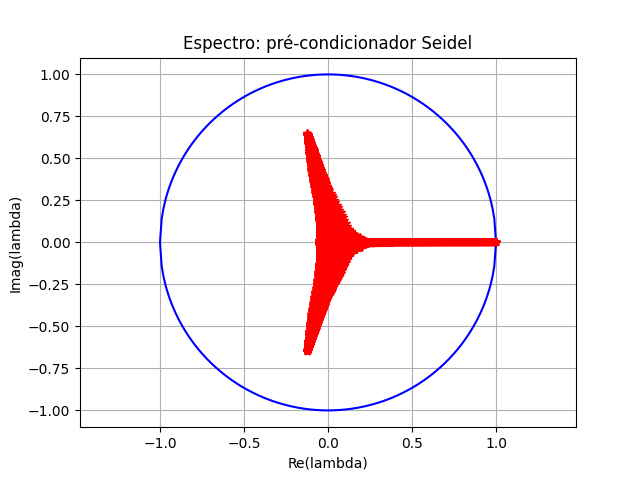
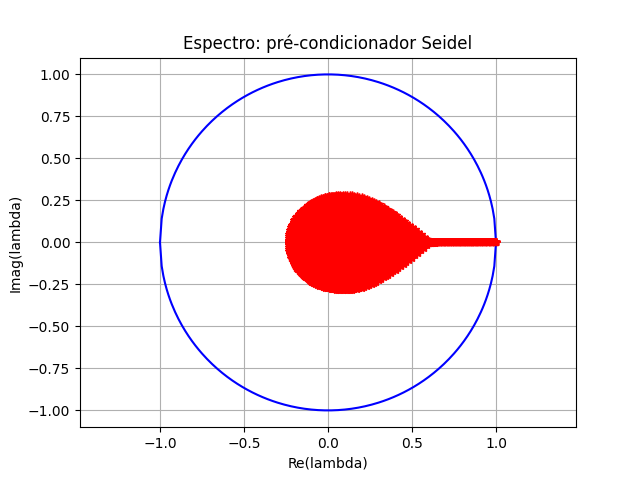
multiscale + jacobi and multiscale + seidel, not ok

Changed region(s): [[0.4375, 0.25, 0.6875, 0.75]]

diff --git a/Espectro/SpectralAnalysisMethods.py b/Espectro/SpectralAnalysisMethods.py
@@ -286,8 +286,7 @@ class SpectralAnalysisMethods:
         # espec_error_operator = np.max(np.abs(av_error_operator))    # raio espectral da matriz pré-condicionada
         ilu = spla.spilu(self._A, fill_factor=1)
         def precond_ilu(x): # Aproximação de A-1 ilu
-            precond_step = ilu.solve(x.astype(np.float64))
-            return precond_step
+            return ilu.solve(x.astype(np.float64))
 
         # precond_multiscale = self._OP @ la.inv(self._OR @ self._A @ self._OP) @ self._OR                  # matriz de pré-condicionamento M^-1 Multiescala
         # precond_system = precond_multiscale @ self._A                             # matriz pré-condicionada
@@ -368,111 +367,166 @@ class SpectralAnalysisMethods:
     def Multiscale_Jacobi(self, args):
         # ----- MATRIZ A pré-condicionador Multiescala + Jacobi -----
         nnod, upperA, lowerA, diagA = args
-        precond_jacobi = la.inv(diagA)                      # pré-condicionador diagonal
-        precond_system = precond_jacobi @ self._A                 # matriz pré-condicionada
-        precond_b = precond_jacobi @ self._b                          # vetor dos carregamentos externos pré-condicionado
-        posto_jacobi = np.linalg.matrix_rank(precond_system)    # posto da matriz pré-condicionada
-        cond_jacobi = np.linalg.cond(precond_system)            # condicionamento da matriz de Jacobi
-        av_jacobi = la.eigvals(precond_system)                  # espectro da matriz de Jacobi
-        esp_jacobi = np.max(np.abs(av_jacobi))                  # raio espectral da matriz de Jacobi
+        # precond_jacobi = la.inv(diagA)                      # pré-condicionador diagonal
+        # precond_system = precond_jacobi @ self._A                 # matriz pré-condicionada
+        # precond_b = precond_jacobi @ self._b                          # vetor dos carregamentos externos pré-condicionado
+        # posto_jacobi = np.linalg.matrix_rank(precond_system)    # posto da matriz pré-condicionada
+        # cond_jacobi = np.linalg.cond(precond_system)            # condicionamento da matriz de Jacobi
+        # av_jacobi = la.eigvals(precond_system)                  # espectro da matriz de Jacobi
+        # esp_jacobi = np.max(np.abs(av_jacobi))                  # raio espectral da matriz de Jacobi
+        def precond_jacobi(x):
+            return spla.spsolve(diagA, x)
         
-        precond_multiscale = self._OP @ la.inv(self._OR @ self._A @ self._OP) @ self._OR                  # matriz de pré-condicionamento M^-1 Multiescala
-        precond_system = precond_multiscale @ self._A                             # matriz pré-condicionada
-        precond_b = precond_multiscale @ self._b                                      # vetor dos carregamentos externos pré-condicionado
-        cond_multiscale = np.linalg.cond(precond_system)                        # condicionamento da matriz Mmulti
-        av_multiscale = la.eigvals(precond_system)                              # espectro da matriz Mmulti
-        esp_multiscale = np.max(np.abs(av_multiscale))                          # raio espectral da matriz Mmulti
+        # precond_multiscale = self._OP @ la.inv(self._OR @ self._A @ self._OP) @ self._OR                  # matriz de pré-condicionamento M^-1 Multiescala
+        # precond_system = precond_multiscale @ self._A                             # matriz pré-condicionada
+        # precond_b = precond_multiscale @ self._b                                      # vetor dos carregamentos externos pré-condicionado
+        # cond_multiscale = np.linalg.cond(precond_system)                        # condicionamento da matriz Mmulti
+        # av_multiscale = la.eigvals(precond_system)                              # espectro da matriz Mmulti
+        # esp_multiscale = np.max(np.abs(av_multiscale))                          # raio espectral da matriz Mmulti
+        RAP = self._OR @ self._A @ self._OP
+        solver = spla.factorized(RAP)
+        def precond_multiscale(x): # Aproximação de A-1 multiscale
+            return self._OP @ solver(self._OR @ x)
 
-        precond_multiscalejacobi = (precond_multiscale + precond_jacobi - self._A @ precond_multiscale @ precond_jacobi)
-        precond_system_mjacobi = precond_multiscalejacobi @ self._A
-        cond_multiscale_jacobi = np.linalg.cond(precond_system_mjacobi)
-        av_error_operator_mjacobi = la.eigvals(np.eye(nnod) - precond_system_mjacobi)
+        # precond_multiscalejacobi = (precond_multiscale + precond_jacobi - self._A @ precond_multiscale @ precond_jacobi)
+        # precond_system_mjacobi = precond_multiscalejacobi @ self._A
+        # cond_multiscale_jacobi = np.linalg.cond(precond_system_mjacobi)
+        # av_error_operator_mjacobi = la.eigvals(np.eye(nnod) - precond_system_mjacobi)
+        def apply_G(x):
+            Ax = self._A @ x
+            multiscale_jacobi_Ax = (precond_multiscale(Ax) + precond_jacobi(Ax) - precond_multiscale(self._A @ precond_jacobi(Ax))) # precond_multiscale_jacobi @ Ax
+            return x - multiscale_jacobi_Ax
 
-        # Resolvendo o sistema linear
-        t0 = time.time()
+        error_operator = spla.LinearOperator((self._A.shape[0], self._A.shape[0]), matvec=apply_G)
+        # espec_error_operator = np.max(np.abs(av_error_operator))                      # raio espectral do operador de propagação de erro
+        print('Init 1')
+        # 5000 maior magnitude
+        BM = spla.eigs(error_operator, k=5000, which='LM', return_eigenvectors=False)          # espectro da matriz de iteração
+        print('ok\nInit 2')
+        # 5000 menor magnitude
+        try:
+            SM = spla.eigs(error_operator, k=5000 , which='SM', return_eigenvectors=False)
+        except:
+            print("Aviso: SM não convergiu.")
+            SM = np.array([])
+        print('ok')
+        
+        av_error_operator = np.concatenate([BM, SM])
 
-        iter = 1
-        itermax = 1000
-        tolerancia = 1.0e-3
+        # # Resolvendo o sistema linear
+        # t0 = time.time()
 
-        xold = np.zeros(nnod)
-        xnew = xold.copy()
-        resold1 = self._b - self._A @ xold
-        delta = np.linalg.norm(resold1)
-        deltaresold = [delta]
-        S1 = precond_multiscale
-        S2 = precond_jacobi
+        # iter = 1
+        # itermax = 1000
+        # tolerancia = 1.0e-3
 
-        while delta > tolerancia and iter < itermax:
-            xmed = xold + S1 @ resold1
-            resold2 = self._b - self._A @ xnew
-            xnew = xmed + S2 @ resold2
-            resold1 = self._b - self._A @ xnew
-            delta = np.linalg.norm(resold1)
+        # xold = np.zeros(nnod)
+        # xnew = xold.copy()
+        # resold1 = self._b - self._A @ xold
+        # delta = np.linalg.norm(resold1)
+        # deltaresold = [delta]
+        # S1 = precond_multiscale
+        # S2 = precond_jacobi
 
-            xold = xnew.copy()
-            iter += 1
-            deltaresold.append(delta)
+        # while delta > tolerancia and iter < itermax:
+        #     xmed = xold + S1 @ resold1
+        #     resold2 = self._b - self._A @ xnew
+        #     xnew = xmed + S2 @ resold2
+        #     resold1 = self._b - self._A @ xnew
+        #     delta = np.linalg.norm(resold1)
 
-        t_final = time.time() - t0
-        print(f"Tempo total (s): {t_final:.4f}")
-        print(f"Número de iterações: {iter}")
-        print(f"Resíduo final: {delta:.3e}")
+        #     xold = xnew.copy()
+        #     iter += 1
+        #     deltaresold.append(delta)
 
-        return av_error_operator_mjacobi, deltaresold
+        # t_final = time.time() - t0
+        # print(f"Tempo total (s): {t_final:.4f}")
+        # print(f"Número de iterações: {iter}")
+        # print(f"Resíduo final: {delta:.3e}")
+
+        # return av_error_operator_mjacobi, deltaresold
+        return av_error_operator, None
 
     def Multiscale_Seidel(self, args):
         nnod, upperA, lowerA, diagA = args
-        precond_seidel = la.inv(diagA + lowerA)         # pré-condicionador Gauss-Seidel
-        precond_system = precond_seidel @ self._A                 # matriz pré-condicionada
-        precond_b = precond_seidel @ self._b                          # vetor dos carregamentos externos pré-condicionado
-        posto_seidel = np.linalg.matrix_rank(precond_system)    # posto da matriz pré-condicionada
-        cond_seidel = np.linalg.cond(precond_system)            # condicionamento da matriz de Seidel
-        av_seidel = la.eigvals(precond_system)                  # espectro da matriz de Seidel
-        esp_seidel = np.max(np.abs(av_seidel))                  # raio espectral da matriz de Seidel
+        # precond_seidel = la.inv(diagA + lowerA)         # pré-condicionador Gauss-Seidel
+        # precond_system = precond_seidel @ self._A                 # matriz pré-condicionada
+        # precond_b = precond_seidel @ self._b                          # vetor dos carregamentos externos pré-condicionado
+        # posto_seidel = np.linalg.matrix_rank(precond_system)    # posto da matriz pré-condicionada
+        # cond_seidel = np.linalg.cond(precond_system)            # condicionamento da matriz de Seidel
+        # av_seidel = la.eigvals(precond_system)                  # espectro da matriz de Seidel
+        # esp_seidel = np.max(np.abs(av_seidel))                  # raio espectral da matriz de Seidel
+        M = lowerA + diagA
+        def precond_seidel(x):
+            return spla.spsolve_triangular(M, x, lower=True)
 
-        precond_multiscale = self._OP @ la.inv(self._OR @ self._A @ self._OP) @ self._OR              # matriz de pré-condicionamento M^-1 Multiescala
-        precond_system = precond_multiscale @ self._A                         # matriz pré-condicionada
-        precond_b = precond_multiscale @ self._b                                  # vetor dos carregamentos externos pré-condicionado
-        cond_multiscale = np.linalg.cond(precond_system)                    # condicionamento da matriz Mmulti
-        av_multiscale = la.eigvals(precond_system)                          # espectro da matriz Mmulti
-        esp_multiscale = np.max(np.abs(av_multiscale))                      # raio espectral da matriz Mmulti
+        # precond_multiscale = self._OP @ la.inv(self._OR @ self._A @ self._OP) @ self._OR              # matriz de pré-condicionamento M^-1 Multiescala
+        # precond_system = precond_multiscale @ self._A                         # matriz pré-condicionada
+        # precond_b = precond_multiscale @ self._b                                  # vetor dos carregamentos externos pré-condicionado
+        # cond_multiscale = np.linalg.cond(precond_system)                    # condicionamento da matriz Mmulti
+        # av_multiscale = la.eigvals(precond_system)                          # espectro da matriz Mmulti
+        # esp_multiscale = np.max(np.abs(av_multiscale))                      # raio espectral da matriz Mmulti
+        RAP = self._OR @ self._A @ self._OP
+        solver = spla.factorized(RAP)
+        def precond_multiscale(x): # Aproximação de A-1 multiscale
+            return self._OP @ solver(self._OR @ x)
 
-        precond_multiscaleseidel = (precond_multiscale + precond_seidel - self._A @ precond_multiscale @ precond_seidel)
-        precond_system_mseidel = precond_multiscaleseidel @ self._A
-        cond_multiscale_seidel = np.linalg.cond(precond_system_mseidel)
-        posto_multiscaleseidel = np.linalg.matrix_rank(precond_system_mseidel)
-        av_error_operator = la.eigvals(np.eye(nnod) - precond_system_mseidel)
+        # precond_multiscaleseidel = (precond_multiscale + precond_seidel - self._A @ precond_multiscale @ precond_seidel)
+        # precond_system_mseidel = precond_multiscaleseidel @ self._A
+        # cond_multiscale_seidel = np.linalg.cond(precond_system_mseidel)
+        # posto_multiscaleseidel = np.linalg.matrix_rank(precond_system_mseidel)
+        # av_error_operator = la.eigvals(np.eye(nnod) - precond_system_mseidel)
+        def apply_G(x):
+            Ax = self._A @ x
+            multiscale_jacobi_Ax = (precond_multiscale(Ax) + precond_seidel(Ax) - precond_multiscale(self._A @ precond_seidel(Ax))) # precond_multiscale_jacobi @ Ax
+            return x - multiscale_jacobi_Ax
+        
+        error_operator = spla.LinearOperator((self._A.shape[0], self._A.shape[0]), matvec=apply_G)
+        # espec_error_operator = np.max(np.abs(av_error_operator))                      # raio espectral do operador de propagação de erro
+        print('Init 1')
+        # 5000 maior magnitude
+        BM = spla.eigs(error_operator, k=5000, which='LM', return_eigenvectors=False)          # espectro da matriz de iteração
+        print('ok\nInit 2')
+        # 5000 menor magnitude
+        try:
+            SM = spla.eigs(error_operator, k=5000 , which='SM', return_eigenvectors=False)
+        except:
+            print("Aviso: SM não convergiu.")
+            SM = np.array([])
+        print('ok')
+        
+        av_error_operator = np.concatenate([BM, SM])
 
-        # Resolvendo o sistema linear
-        t0 = time.time()
+        # # Resolvendo o sistema linear
+        # t0 = time.time()
 
-        iter = 1
-        itermax = 1000
-        tolerancia = 1.0e-3
+        # iter = 1
+        # itermax = 1000
+        # tolerancia = 1.0e-3
 
-        xold = np.zeros(nnod)
-        xnew = xold.copy()
-        resold1 = self._b - self._A @ xold
-        delta = np.linalg.norm(resold1)
-        deltaresold = [delta]
-        S1 = precond_multiscale
-        S2 = precond_seidel
+        # xold = np.zeros(nnod)
+        # xnew = xold.copy()
+        # resold1 = self._b - self._A @ xold
+        # delta = np.linalg.norm(resold1)
+        # deltaresold = [delta]
+        # S1 = precond_multiscale
+        # S2 = precond_seidel
 
-        while delta > tolerancia and iter < itermax:
-            xmed = xold + S1 @ resold1
-            resold2 = self._b - self._A @ xnew
-            xnew = xmed + S2 @ resold2
-            resold1 = self._b - self._A @ xnew
-            delta = np.linalg.norm(resold1)
+        # while delta > tolerancia and iter < itermax:
+        #     xmed = xold + S1 @ resold1
+        #     resold2 = self._b - self._A @ xnew
+        #     xnew = xmed + S2 @ resold2
+        #     resold1 = self._b - self._A @ xnew
+        #     delta = np.linalg.norm(resold1)
 
-            xold = xnew.copy()
-            iter += 1
-            deltaresold.append(delta)
+        #     xold = xnew.copy()
+        #     iter += 1
+        #     deltaresold.append(delta)
 
-        t_final = time.time() - t0
-        print(f"Tempo total (s): {t_final:.4f}")
-        print(f"Número de iterações: {iter}")
-        print(f"Resíduo final: {delta:.3e}")
+        # t_final = time.time() - t0
+        # print(f"Tempo total (s): {t_final:.4f}")
+        # print(f"Número de iterações: {iter}")
+        # print(f"Resíduo final: {delta:.3e}")
 
-        return av_error_operator, deltaresold
+        # return av_error_operator, deltaresold
+        return av_error_operator, None

diff --git a/Espectro/MatrixSpectralAnalysis.py b/Espectro/MatrixSpectralAnalysis.py
@@ -70,8 +70,8 @@ class MatrixSpectralAnalysis:
     def Solve(self, method):
         # ----- Análise espectral da matriz de transmissibilidade pré-condicionada -----
         nnod = self._A.shape[0]                # número de graus de liberdade
-        upperA = sp.tril(self._A, k=-1)    # matriz triangular inferior
-        lowerA = sp.triu(self._A, k=1)     # matriz triangular superior
+        lowerA = sp.tril(self._A, k=-1)    # matriz triangular inferior
+        upperA = sp.triu(self._A, k=1)     # matriz triangular superior
         diagA  = sp.diags(self._A.diagonal(), format="csc")             # diagonal da matriz
         print(nnod)
 

diff --git a/Espectro/teste_ESPECTRO.py b/Espectro/teste_ESPECTRO.py
@@ -4,7 +4,7 @@ import scipy.sparse.linalg as spla
 import matplotlib.pyplot as plt
 from MatrixSpectralAnalysis import MatrixSpectralAnalysis
 
-problem = "Joao"  # Barreira ou Joao
+problem = "Barreira"  # Barreira ou Joao
 
 if problem != 'Barreira':
     data_path = './Projeto-IC/Espectro/dados'
@@ -45,7 +45,7 @@ sa = MatrixSpectralAnalysis(A, OP, OR, b)
 # sa.PreconditionedMatrix_Analysis()
 print('solve')
 # methods: 'Jacobi', 'Seidel', 'ILUfac', 'Multiscale', 'MultiscaleILUfac', 'MultiscaleJacobi', 'MultiscaleSeidel'
-method = 'ILUfac'
+method = 'MultiscaleJacobi'
 av_error, res = sa.Solve(method)
 print(len(av_error))
 print(av_error[:100])
